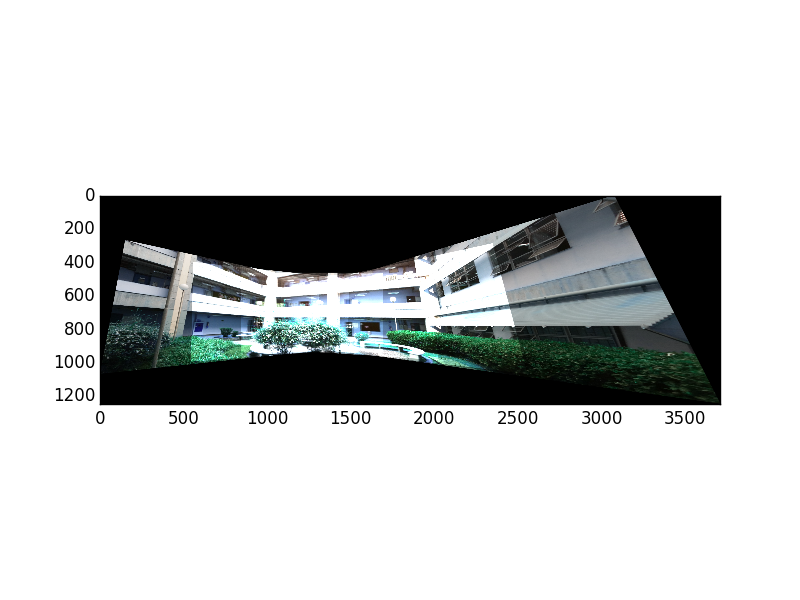
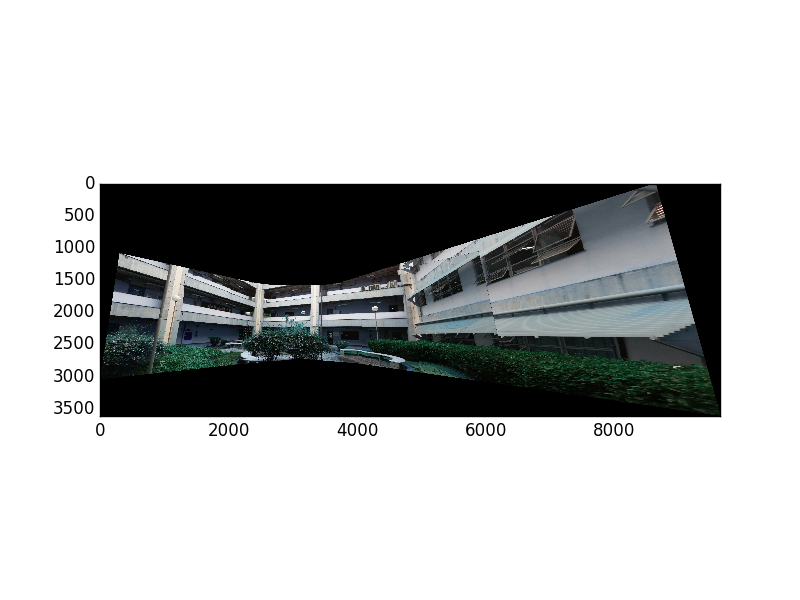
orb

Changed region(s): [[0.0625, 0.3, 0.9062, 0.75]]

diff --git a/tp2.py b/tp2.py
@@ -9,6 +9,13 @@ import threading
 import time
 import matplotlib.pyplot as plt
 
+MAX_HEIGHT = 2000.00
+
+SIFT_SIFT = 0
+FAST_BRIEF = 1
+ORB_ORB = 2
+
+CURRENT_METHOD = SIFT_SIFT
 
 IMG_COUNT = 6
 IMG_PREFIX = 'img'
@@ -16,22 +23,20 @@ IMG_EXT = 'jpg'
 IMG_GROUND_TRUTH = 'groundtruth.jpg'
 FLANN_INDEX_KDTREE = 1
 
-# Funcao de suporte para salvar a imagem
+
+# Support function to save images to files
 def save_image(img, name):
     plt.imshow(img)
     plt.savefig(name)
 
 
-# funcao de suporte para exibicao de imagem
+# Support function to show images
 def show_image(img):
-    plt.imshow(img, cmap=plt.cm.Greys_r)
+    plt.imshow(img)
     plt.show()
 
 
-# Funcao de suporte para exibicao da imagem
-# funcao que faz o calculo do histograma de cada canal de cor
-# utilizado somente a funcao do opencv por ser mais rapida,
-# mas o algoritmo segue abaixo como demonstracao
+# Support function to calc color histograms, if needed
 def image_hist(img):
     colors_hist = np.zeros((3, 256))
     for i in range(0, 3):
@@ -41,7 +46,7 @@ def image_hist(img):
     return colors_hist
 
 
-# funcao de suporte para o calculo do erro quadratico medio
+# Support function to calculate the mean squared error
 def get_mse(query, target):
     (m, n) = query.shape[:2]
     if (m == 3) and (n == 256):
@@ -53,8 +58,7 @@ def get_mse(query, target):
     return sums / (m * n)
 
 
-# funcao de suporte para calcular a relacao entre uma
-# imagem alvo, uma imagem de pesquisa para decidir o tamanho da janela de percorrer
+# Support function to define the correlation factor between to images
 def get_size_factor(query, target, factor):
     (target_h, target_w) = target.shape[:2]
     (query_h, query_w) = query.shape[:2]
@@ -65,8 +69,7 @@ def get_size_factor(query, target, factor):
     return factor
 
 
-# funcao de suporte para recuperar qual a relacao entre o tamanho da imagem alvo
-# e o tamanho desejado para redimensionamento
+# Support function to define if the image surpass a limited size
 def get_base_scale(img, maximum):
     (query_h, query_w) = img.shape[:2]
     if query_h > query_w:
@@ -76,13 +79,60 @@ def get_base_scale(img, maximum):
     return factor
 
 
-# filtro de passa baixa
+# Low pass filter
 def remove_noise(img):
     kernel = np.ones((3, 3), np.float32) / 8
     dst = cv2.filter2D(img, -1, kernel)
     return dst
 
 
+# To keep the code clear applied to design patterns, decorator and singleton
+# since the method is selected once in a run
+def singleton(cls):
+    instances = {}
+
+    def get_instance():
+        if cls not in instances:
+            instances[cls] = cls()
+        return instances[cls]
+
+    return get_instance
+
+
+# The class used to collect the method used in the run, with its detectors and matcher
+@singleton
+class Method:
+    def __init__(self):
+        self._method = -1
+        self._detector = None
+        self._matcher = None
+
+    def set(self, method=SIFT_SIFT):
+        self._method = method
+        print method
+        if method == SIFT_SIFT:
+            self._detector = cv2.xfeatures2d.SIFT_create()
+            index_params = dict(algorithm=FLANN_INDEX_KDTREE, trees=5)
+            search_params = dict(checks=64)
+            # Faster than brute force, considering that sift is a very expensive detector
+            self._matcher = cv2.BFMatcher()#cv2.FlannBasedMatcher(index_params, search_params)
+        else:
+            if method == ORB_ORB:
+                self._detector = cv2.ORB_create()
+                # HAMMING because orb create a set binary descriptors
+                self._matcher = cv2.BFMatcher(cv2.NORM_HAMMING, crossCheck=True)
+
+    def get_detector(self):
+        return self._detector
+
+    def get_matcher(self):
+        return self._matcher
+
+    def get_method(self):
+        return self._method
+
+
+# The class responsible for the all the metadata and operations over the tiles to be compacted into a panorama
 class ImageBlock:
     def __init__(self, path=None, image=None):
         self._descriptors = None
@@ -98,10 +148,9 @@ class ImageBlock:
 
         h, w = self._image.shape[:2]
 
-        if h > 800:
-            scale = 800.00 / h
+        if h > MAX_HEIGHT:
+            scale = MAX_HEIGHT / h
             self._image = cv2.resize(self._image, None, fx=scale, fy=scale)
-
 
     def get_image(self):
         return self._image
@@ -114,17 +163,6 @@ class ImageBlock:
 
     def get_path(self):
         return self._path
-
-    @staticmethod
-    def get_detector():
-        return cv2.xfeatures2d.SIFT_create()
-
-    @staticmethod
-    def get_matcher():
-        index_params = dict(algorithm=FLANN_INDEX_KDTREE, trees=4)
-        search_params = dict(checks=32)
-        matcher = cv2.FlannBasedMatcher(index_params, search_params)
-        return matcher
 
     def detect(self, left=None, right=None):
 
@@ -140,10 +178,10 @@ class ImageBlock:
             mask[:, :left] = 255
 
         if right is not None:
-            mask[img_h-right:, :] = 255
+            mask[img_h - right:, :] = 255
 
         # detecting key points and regions
-        detector = self.get_detector()
+        detector = Method().get_detector()
 
         print "detect " + self.get_path()
         kp = detector.detect(gray, mask)
@@ -157,15 +195,27 @@ class ImageBlock:
         return (homography[0, 1] * homography[1, 1] * homography[2, 2]) - (
             homography[2, 0] * homography[1, 1] * homography[0, 2])
 
-    def match(self, target, threshold=0.8):
-        print "Matching"
-        matcher = self.get_matcher()
-        knn_matches = matcher.knnMatch(self._descriptors, target.get_descriptors(), k=2)
-
+    @staticmethod
+    def get_good_matches(matches, threshold):
         good = []
-        for m, n in knn_matches:
-            if m.distance < threshold * n.distance:
-                good.append(m)
+        if Method().get_method() == SIFT_SIFT:
+            for m, n in matches:
+                if m.distance < threshold * n.distance:
+                    good.append(m)
+        else:
+            good = matches[:20]
+
+        return good
+
+    def match(self, target, threshold=0.7):
+        print "Matching"
+        matcher = Method().get_matcher()
+        if Method().get_method() == SIFT_SIFT:
+            matches = matcher.knnMatch(self._descriptors, target.get_descriptors(), k=2)
+        else:
+            matches = matcher.match(self._descriptors, target.get_descriptors())
+
+        good = self.get_good_matches(matches, threshold)
         return good
 
     def get_homography(self, target, good_matches):
@@ -183,9 +233,10 @@ class ImageBlock:
         return matrix_h
 
 
-
 class Mosaic:
-    def get_wrap_image(self, center_block, target):
+
+    @staticmethod
+    def get_wrap_image(center_block, target):
         print "Matching " + center_block.get_path() + " and " + target.get_path()
         matches = center_block.match(target)
         homography = center_block.get_homography(target, matches)
@@ -208,13 +259,14 @@ class Mosaic:
         img_h = int(math.ceil(max_y))
         target_img_wrp = cv2.warpPerspective(target.get_image(), mod_inv_h, (img_w, img_h))
 
-        (ret, data_map) = cv2.threshold(cv2.cvtColor(target_img_wrp, cv2.COLOR_BGR2GRAY),
-                                        0, 255, cv2.THRESH_BINARY)
         # img = cv2.half()
         # cv::Mat half(result,cv::Rect(0,0,image2.cols,image2.rows));
         # show_image(target_img_wrp)
 
         center_img_wrp = cv2.warpPerspective(center_block.get_image(), move_h, (img_w, img_h))
+
+        (ret, data_map) = cv2.threshold(cv2.cvtColor(center_img_wrp, cv2.COLOR_BGR2GRAY),
+                                        0, 255, cv2.THRESH_BINARY)
 
         enlarged_base_img = np.zeros((img_h, img_w, 3), np.uint8)
         # Now add the warped image
@@ -222,7 +274,9 @@ class Mosaic:
         save_image(center_img_wrp, 'wrapped_' + center_block.get_path())
 
         enlarged_base_img = cv2.add(enlarged_base_img, target_img_wrp,
+                                    mask=np.bitwise_not(data_map),
                                     dtype=cv2.CV_8U)
+
         save_image(enlarged_base_img, 'wrapped_1_' + center_block.get_path())
 
         final_img = cv2.add(enlarged_base_img, center_img_wrp,
@@ -240,9 +294,7 @@ class Mosaic:
         return result_block
 
     def __init__(self):
-
-        center = (IMG_COUNT + 1) / 2
-
+        Method().set(CURRENT_METHOD)
         block_list = []
         for img_idx in range(1, IMG_COUNT + 1):
             img_path = IMG_PREFIX + str(img_idx) + "." + IMG_EXT
@@ -257,31 +309,20 @@ class Mosaic:
         block34.detect(left=3000)
         block234 = self.combine(block34, block_list[1], 'img234.png')
         del block34
-        block234.detect(left=3000)
-        block1234 = self.combine(block234, block_list[0], 'img1234.png')
+
+        block234.detect(right=3000)
+        block2345 = self.combine(block234, block_list[4], 'img2345.png')
         del block234
-        block1234.detect(right=3000)
-        block12345 = self.combine(block1234, block_list[4], 'img12345.png')
-        del block1234
+
+        block2345.detect(left=3000)
+        block12345 = self.combine(block2345, block_list[0], 'img12345.png')
+        del block2345
+
         block12345.detect(right=3000)
         block123456 = self.combine(block12345, block_list[5], 'img123456.png')
         del block12345
-        # block123456.detect()
         show_image(block123456.get_image())
         del block123456
-        # left = block_list[2]
-        # center_block = block_list[3]
-        # right = block_list[4]
-        #
-        # center_img_1 = self.left_right(center_block, left, right)
-        # show_image(center_img_1)
-        # left = block_list[1]
-        # right = block_list[5]
-        # center_block_1 = ImageBlock('center_image_1', center_img_1)
-        #
-        # center_img_2 = self.left_right(center_block_1, left, right)
-
-        #show_image(center_img_2)
 
 
 def findDimensions(image, homography):
@@ -335,28 +376,28 @@ __author__ = 'gorigan'
 
 
 
-#junk yard
+# junk yard
 
-        # def print_lines(self, target, homography, mask, good_matches):
-        #
-        # matches_mask = mask.ravel().tolist()
-        #
-        #     h, w = self._image.shape[:2]
-        #     pts = np.float32([[0, 0], [0, h - 1], [w - 1, h - 1], [w - 1, 0]]).reshape(-1, 1, 2)
-        #     dst = cv2.perspectiveTransform(pts, homography)
-        #
-        #     target_img = cv2.polylines(target.get_image(), [np.int32(dst)], True, 255, 3, cv2.LINE_AA)
-        #
-        #     # draw_params = dict(matchColor=(0, 255, 0),
-        #     #                    singlePointColor = None,
-        #     #                    matchesMask = matches_mask,
-        #     #                    flags = 2)
-        #
-        #     result = cv2.drawMatches(  #self._image, self._keypoints,
-        #                                self._image, None,
-        #                                #target_img, target.get_keypoints(),
-        #                                target_img, None,
-        #                                None, None, None)
-        #     #good_matches, None, **draw_params)
-        #
-        #     show_image(result)
+# def print_lines(self, target, homography, mask, good_matches):
+#
+# matches_mask = mask.ravel().tolist()
+#
+#     h, w = self._image.shape[:2]
+#     pts = np.float32([[0, 0], [0, h - 1], [w - 1, h - 1], [w - 1, 0]]).reshape(-1, 1, 2)
+#     dst = cv2.perspectiveTransform(pts, homography)
+#
+#     target_img = cv2.polylines(target.get_image(), [np.int32(dst)], True, 255, 3, cv2.LINE_AA)
+#
+#     # draw_params = dict(matchColor=(0, 255, 0),
+#     #                    singlePointColor = None,
+#     #                    matchesMask = matches_mask,
+#     #                    flags = 2)
+#
+#     result = cv2.drawMatches(  #self._image, self._keypoints,
+#                                self._image, None,
+#                                #target_img, target.get_keypoints(),
+#                                target_img, None,
+#                                None, None, None)
+#     #good_matches, None, **draw_params)
+#
+#     show_image(result)
